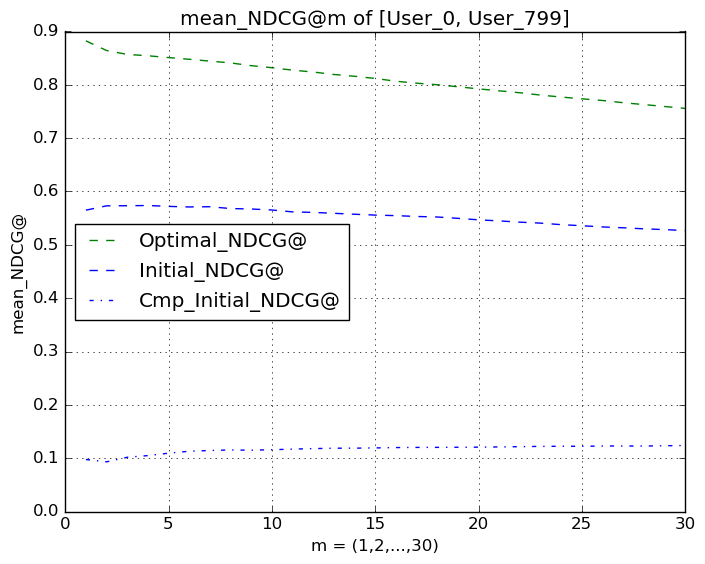
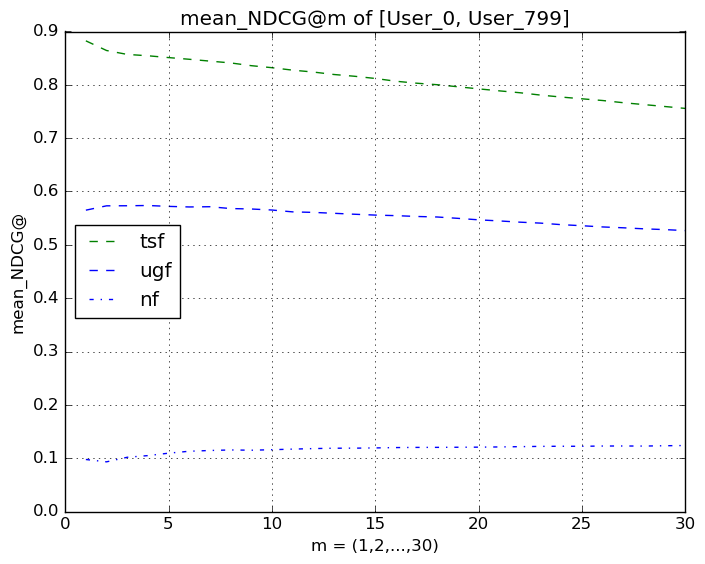
figures: Net9 finetune

Changed region(s): [[0.0936, 0.3918, 0.4993, 0.5727]]

diff --git a/models/fashionNet_9/training_record/t9.1_finetune_test/training_script/results/figures/visualization.py b/models/fashionNet_9/training_record/t9.1_finetune_test/training_script/results/figures/visualization.py
@@ -172,10 +172,10 @@ for n in range(0,ndcg_at_length):
 
 fig = plt.figure()
 ax_left = fig.add_subplot(111)
-ax_left.plot(ndcg_at_idx, optimal_ndcg_at, '--g', label = 'Optimal_NDCG@')
-ax_left.plot(ndcg_at_idx, initial_ndcg_at, '--b', label = 'Initial_NDCG@')
+ax_left.plot(ndcg_at_idx, optimal_ndcg_at, '--g', label = 'tsf')
+ax_left.plot(ndcg_at_idx, initial_ndcg_at, '--b', label = 'ugf')
 # ax_left.plot(ndcg_at_idx, cmp_optimal_ndcg_at, '-.g', label = 'Cmp_Optimal_NDCG@')
-ax_left.plot(ndcg_at_idx, cmp_initial_ndcg_at, '-.b', label = 'Cmp_Initial_NDCG@')
+ax_left.plot(ndcg_at_idx, cmp_initial_ndcg_at, '-.b', label = 'nf')
 lines_left, labels_left = ax_left.get_legend_handles_labels()   
 ax_left.legend(lines_left, labels_left, loc=0)
 ax_left.grid()
